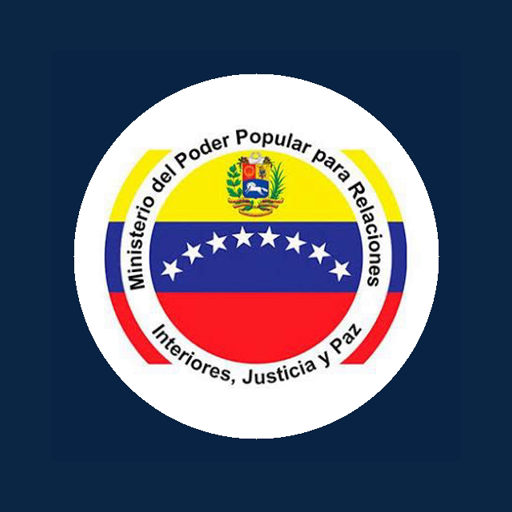
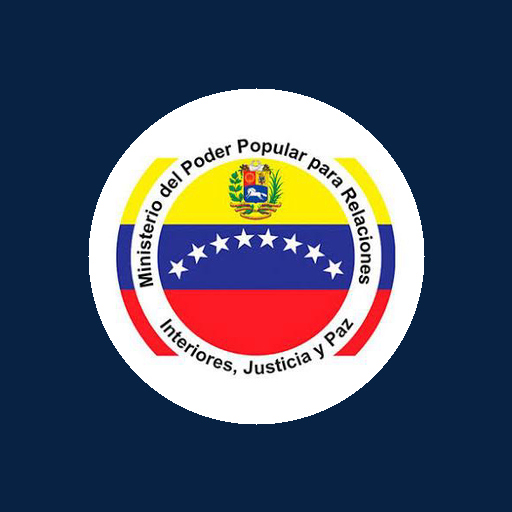
v3.1: el icono de inicio queda compacto y con el mismo azul del fondo del splash (background_color #082243), escudo centrado sin borde visible

Changed region(s): [[0.125, 0.125, 0.875, 0.875]]

diff --git a/public/sw.js b/public/sw.js
@@ -1,5 +1,5 @@
 /* Conecta Chat - service worker (instalable + lo mas reciente primero) */
-const CACHE = 'tramites-ve-v21';
+const CACHE = 'tramites-ve-v22';
 const ASSETS = ['./', './index.html', './styles.css', './app.js', './manifest.json', './bg.jpg', './logos/saime.png', './galeria/01-caminantes.jpg', './galeria/02-joven-bandera.jpg', './galeria/03-comunidad.jpg', './logos/intt.png', './logos/justicia.png', './icon-192.png'];
 
 self.addEventListener('install', (e) => {

diff --git a/public/app.js b/public/app.js
@@ -1,7 +1,7 @@
 const App = (() => {
   // Version visible de la app (subirla junto con el cache del service worker).
   // v2.1: iconos profesionales, navegacion con historial real, logos institucionales, perfil con foto y eliminar cuenta, acceso por correo, sin video ni microfono.
-  const APP_VERSION = 'v3.0';
+  const APP_VERSION = 'v3.1';
 
   const SERVICES = {
     cedula: {
